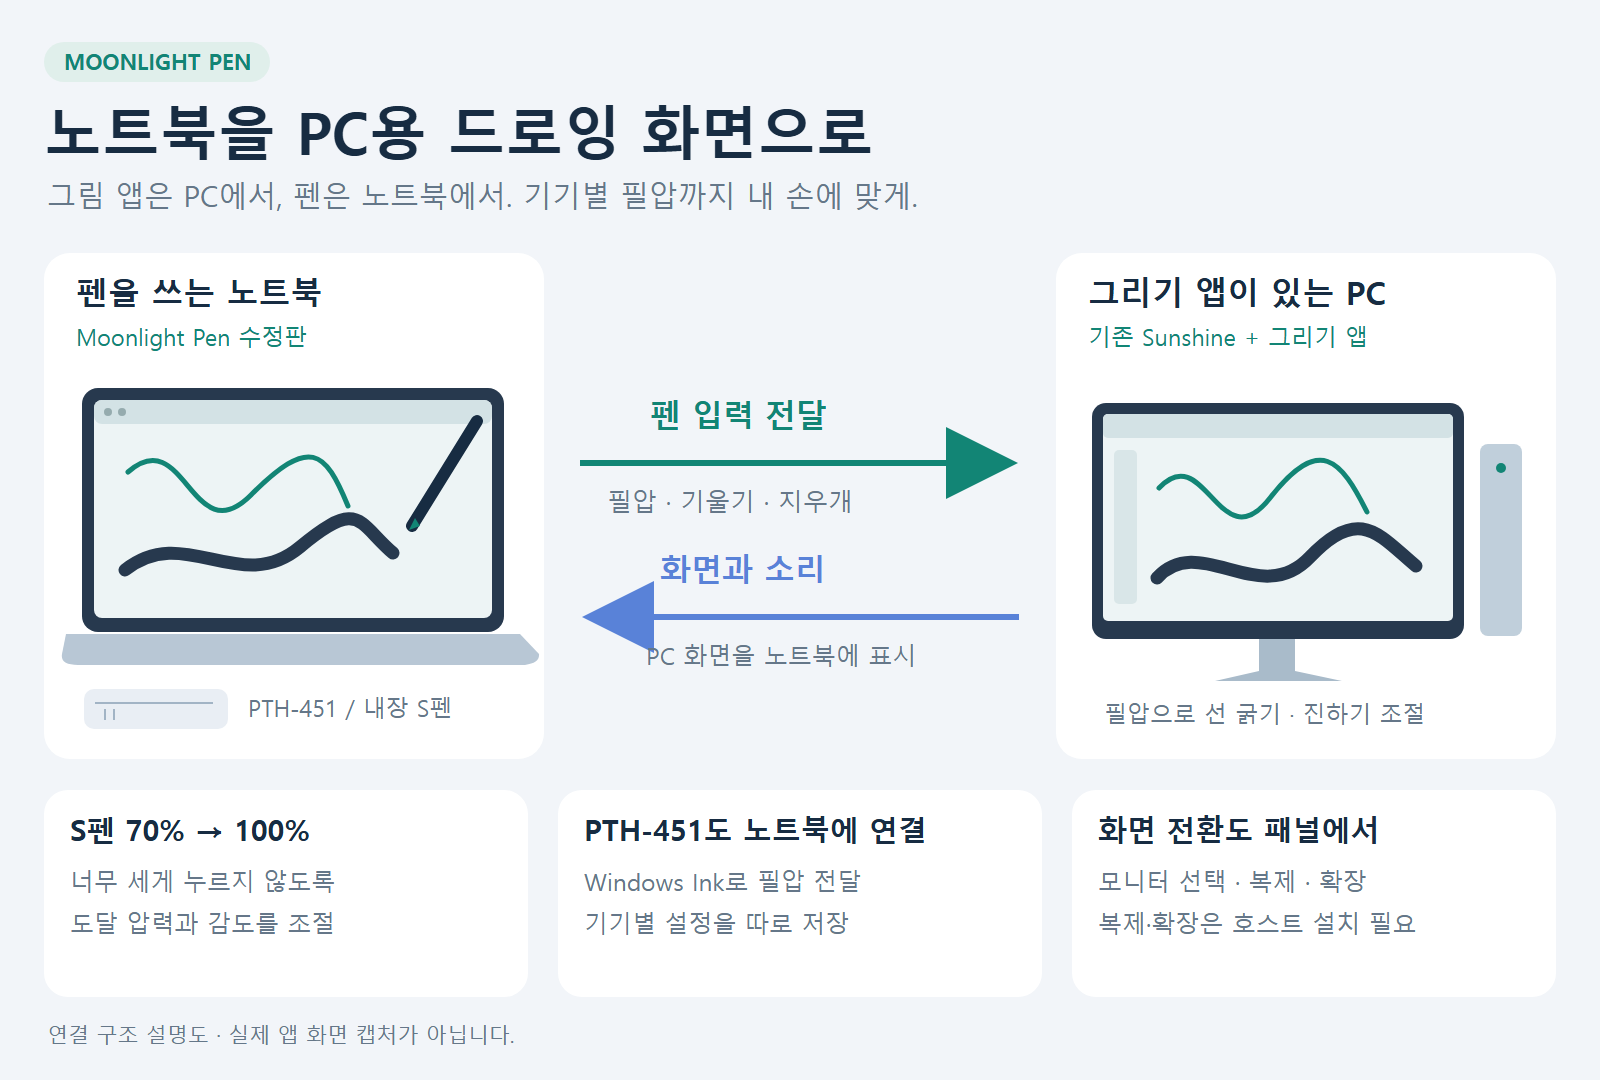
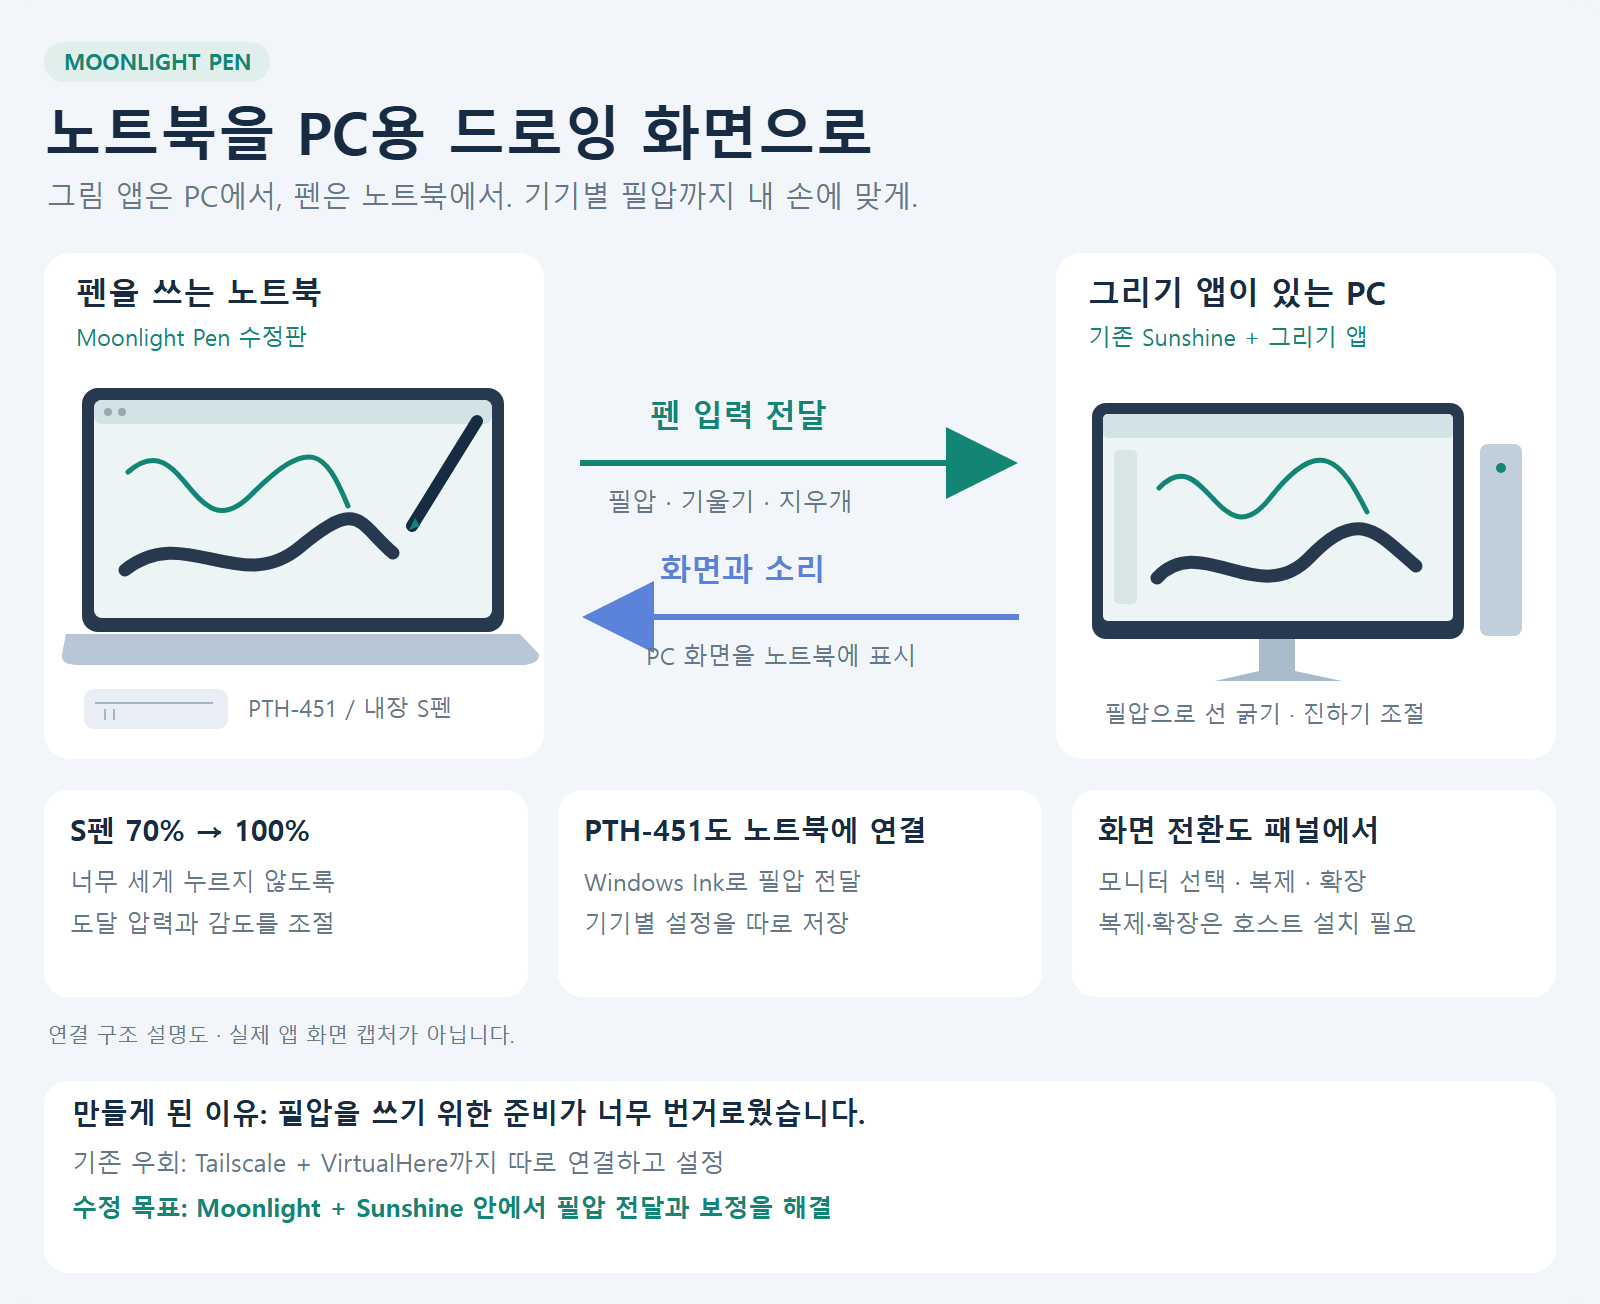
Explain the Tailscale and VirtualHere workaround behind the pen fork

Changed region(s): [[0.0312, 0.0306, 0.625, 0.9778], [0.6562, 0.2139, 0.9688, 0.8861], [0.8438, 0.825, 0.875, 0.8861]]

diff --git a/README.md b/README.md
@@ -26,6 +26,16 @@
 
 이미 지금 구성으로 잘 쓰고 있다면 재설치할 필요는 없습니다. 아래 안내는 새 PC에 설치하거나 나중에 복구할 때 사용하세요.
 
+## 왜 만들었나요?
+
+이 수정판은 **PC의 그리기 앱을 노트북에서 펜으로 편하게 쓰고 싶어서** 시작했습니다. 당시 개인 사용 환경에서는 Parsec과 기존 Moonlight 구성으로 원하는 방식의 필압 전달이 되지 않았습니다.
+
+그래서 **Tailscale + VirtualHere 조합으로 펜 타블렛을 호스트 PC에 USB로 연결한 것처럼 전달하는 방식**을 사용했습니다. 하지만 원격 화면 연결 외에 네트워크 연결과 USB 공유 프로그램까지 따로 준비하고, 연결 상태와 설정을 확인해야 했습니다. 설정이 어렵고 매번 준비가 번거로워서, 그림을 그리려는 일 자체보다 연결을 챙기는 데 힘이 들었습니다.
+
+**이 준비 과정을 줄이고 싶어서 Moonlight의 펜 입력 전달 경로를 활용하는 수정판을 만들었습니다.** 노트북에서 읽은 필압을 Sunshine 호스트로 직접 보내고, S펜·PTH-451별 보정과 입력 확인, 화면 제어를 Moonlight 안에서 할 수 있게 정리했습니다. 목표는 필압을 쓰기 위해 여러 프로그램을 따로 켜고 연결을 맞추던 부담을 줄이는 것입니다.
+
+Tailscale을 외부 네트워크 접속에 사용하는 경우에는 해당 접속 환경에 따라 계속 필요할 수 있습니다. 여기서 간소화한 것은 **필압 전달을 위한 별도의 USB 공유 우회 과정**입니다.
+
 ## 이 수정판으로 하려는 것
 
 **PC의 그리기 앱을 노트북 화면에 띄우고, 노트북의 S펜이나 노트북에 꽂은 PTH-451로 필압을 살려 그리는 용도**입니다. S펜과 PTH-451의 필압을 각각 조절하고, 연결 중 호스트의 모니터·복제·확장도 패널에서 바꿀 수 있게 수정했습니다.
